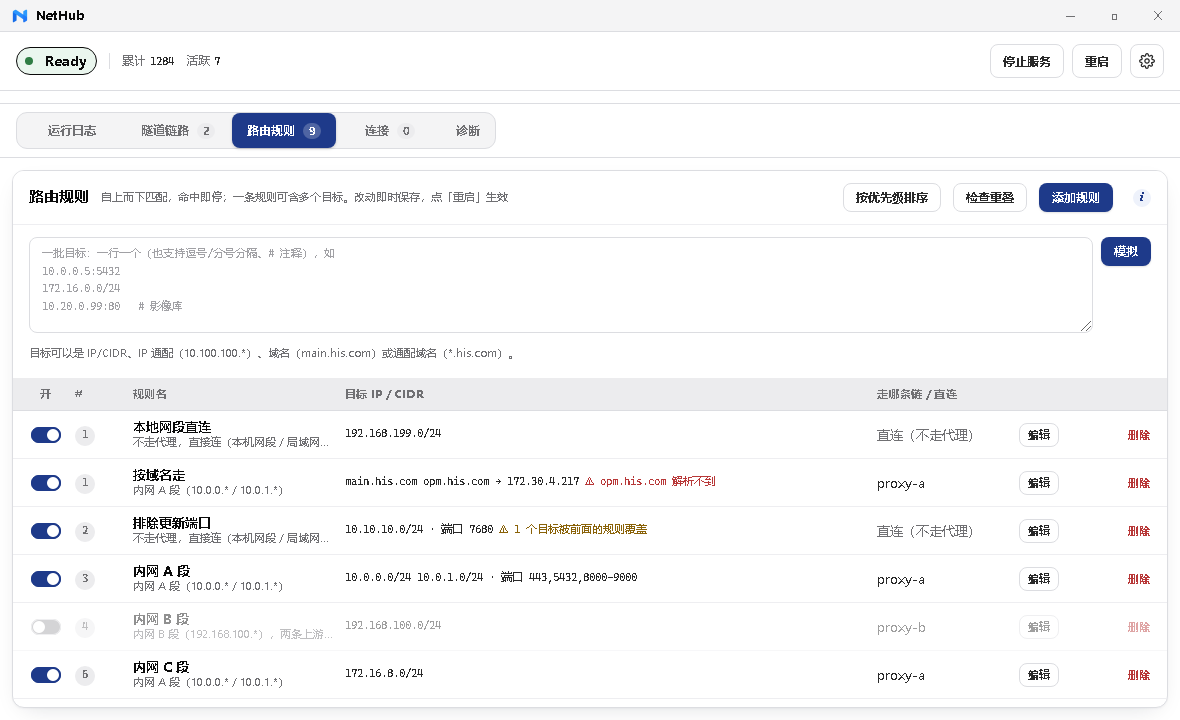
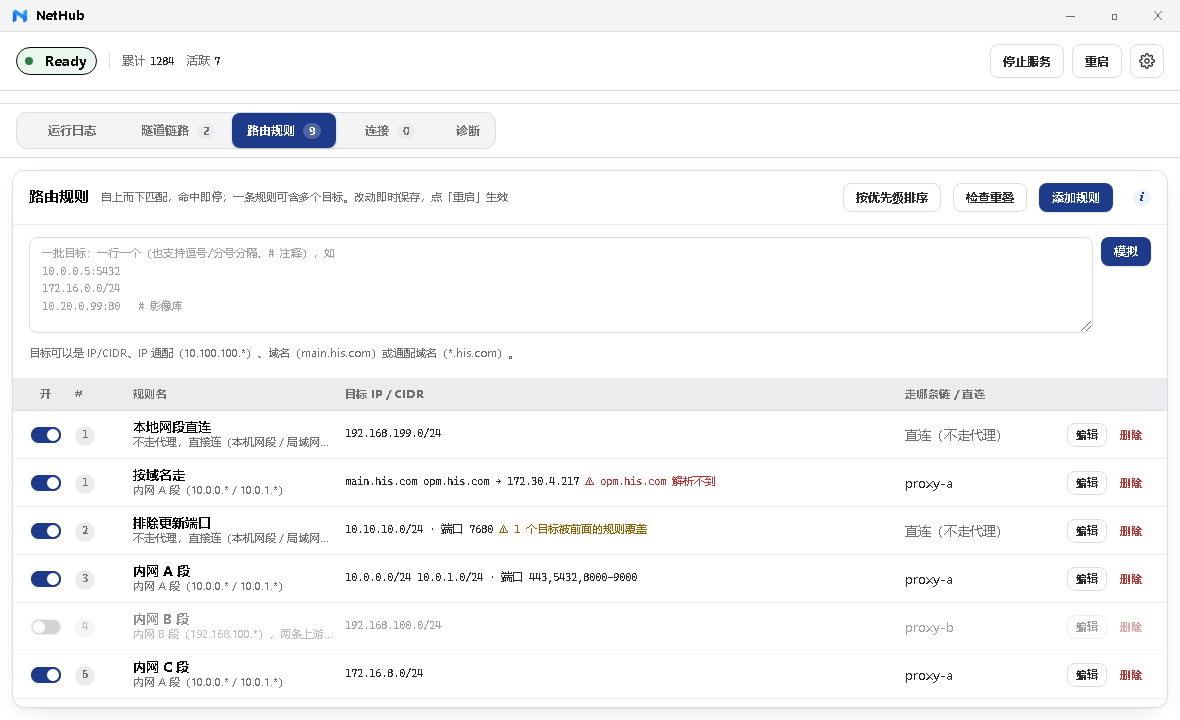
规则/链路行改为整行拖拽排序，去掉 ↑/↓ 按钮
上一版把 ↑↓ 做成 hover 才出现，用户反馈"太蠢"。改成：
- 删除 ↑/↓ 两个按钮，行内只留「编辑 / 删除」。
- 整行按住即可上下拖动排序（按钮、开关、输入框上不起拖，避免误触）。
- 拖拽中只画一条主色落点线，不移动源节点（HTML5 拖拽里移动源节点会把它打断）；
  松手才算出目标下标调后端 MoveRoute/MoveChain 落库。
- 规则表网格 132px → 104px（少两个按钮），链路表同步。
- 拖到列表空白处 = 落到最后。

注：拖拽是鼠标操作，没有键盘等价物（原 ↑↓ 也没有做键盘支持）。
截图已同步重生成。

diff --git a/frontend/app.js b/frontend/app.js
@@ -619,14 +619,9 @@ async function loadChains() {
 
     const acts = el('div', 'cell actions');
     acts.appendChild(btn('编辑', 'btn btn-xs', () => chainForm(i)));
-    const cup = btn('↑', 'btn btn-xs btn-move', () => moveChain(i, -1));
-    cup.title = '上移一位';
-    const cdown = btn('↓', 'btn btn-xs btn-move', () => moveChain(i, 1));
-    cdown.title = '下移一位';
-    acts.appendChild(cup);
-    acts.appendChild(cdown);
     acts.appendChild(btn('删除', 'btn btn-xs btn-danger', () => delChain(c.name)));
     row.appendChild(acts);
+    row.draggable = true;
     t.appendChild(row);
   });
 }
@@ -665,6 +660,72 @@ function btn(text, cls, fn) {
   const b = el('button', cls, text);
   b.onclick = fn;
   return b;
+}
+
+/* 行拖拽排序（规则/链路通用）：按住行内任意位置上下拖，按钮/开关/输入框上不起拖。
+   拖拽中只画一条落点线（不移动源节点 —— 移动它会把 HTML5 拖拽打断）；松手才调后端落库。 */
+function wireRowDrag(tableId, onMove) {
+  const tableEl = document.getElementById(tableId);
+  if (!tableEl) return;
+  let dragRow = null;
+  let pending = null; // { row, after }
+  const rows = () => [...tableEl.children].filter(r => r.classList.contains('trow') && !r.classList.contains('thead'));
+  const clearMarks = () => rows().forEach(r => r.classList.remove('drop-before', 'drop-after'));
+
+  tableEl.addEventListener('dragstart', e => {
+    const row = e.target.closest('.trow');
+    if (!row || row.classList.contains('thead')) return;
+    // 从按钮/开关/输入框上起拖 = 那是点击，不是拖拽
+    if (e.target.closest('button, input, textarea, select, a, .rule-switch')) { e.preventDefault(); return; }
+    dragRow = row;
+    row.dataset.dragFrom = String(rows().indexOf(row));
+    row.classList.add('is-dragging');
+    e.dataTransfer.effectAllowed = 'move';
+    try { e.dataTransfer.setData('text/plain', 'row'); } catch (_) { /* 某些环境不让写 */ }
+  });
+
+  tableEl.addEventListener('dragover', e => {
+    if (!dragRow) return;
+    e.preventDefault();
+    e.dataTransfer.dropEffect = 'move';
+    clearMarks();
+    pending = null;
+    const over = e.target.closest('.trow');
+    if (over && !over.classList.contains('thead') && over !== dragRow) {
+      const rect = over.getBoundingClientRect();
+      const after = e.clientY > rect.top + rect.height / 2;
+      over.classList.add(after ? 'drop-after' : 'drop-before');
+      pending = { row: over, after };
+    } else if (!over) {
+      // 拖到列表空白处 → 落到最后一行之后
+      const list = rows();
+      const last = list[list.length - 1];
+      if (last && last !== dragRow) { last.classList.add('drop-after'); pending = { row: last, after: true }; }
+    }
+  });
+
+  const finish = async () => {
+    const r = dragRow;
+    const p = pending;
+    dragRow = null;
+    pending = null;
+    clearMarks();
+    if (!r) return;
+    r.classList.remove('is-dragging');
+    const from = parseInt(r.dataset.dragFrom || '-1', 10);
+    delete r.dataset.dragFrom;
+    if (!p || from < 0) return;
+    let to = rows().indexOf(p.row);
+    if (to < 0) return;
+    if (p.after) to += 1;
+    if (from < to) to -= 1; // 抽走源行后，目标下标左移一位
+    if (to !== from) await onMove(from, to);
+    else clearMarks();
+  };
+
+  tableEl.addEventListener('drop', e => { if (dragRow) { e.preventDefault(); finish(); } });
+  tableEl.addEventListener('dragend', () => { finish(); });
+  tableEl.addEventListener('dragleave', e => { if (!tableEl.contains(e.relatedTarget)) clearMarks(); });
 }
 
 /* ═══════════════ 空状态 ═══════════════ */
@@ -811,10 +872,10 @@ function field(label, node, hint) {
   return f;
 }
 
-async function moveChain(i, d) {
-  const to = i + d;
-  if (to < 0 || to >= chains.length) return;
-  try { await call('MoveChain', i, to); await loadChains(); } catch (e) { fail(e); }
+/* 拖拽排序：把第 from 条移到第 to 条（绝对值，拖拽落点算出）。 */
+async function moveChainTo(from, to) {
+  try { await call('MoveChain', from, to); } catch (e) { fail(e); }
+  await loadChains();
 }
 
 async function delChain(name) {
@@ -898,14 +959,9 @@ async function loadRoutes() {
 
     const acts = el('div', 'cell actions');
     acts.appendChild(btn('编辑', 'btn btn-xs', () => ruleForm(r.index)));
-    const up = btn('↑', 'btn btn-xs btn-move', () => moveRoute(r.index, -1));
-    up.title = '上移一位（越靠前越先命中）';
-    const down = btn('↓', 'btn btn-xs btn-move', () => moveRoute(r.index, 1));
-    down.title = '下移一位';
-    acts.appendChild(up);
-    acts.appendChild(down);
     acts.appendChild(btn('删除', 'btn btn-xs btn-danger', () => delRoute(r.index)));
     row.appendChild(acts);
+    row.draggable = true; // 整行按住可拖拽调顺序（按钮/开关上不起拖，见 wireRowDrag）
     t.appendChild(row);
   });
 }
@@ -1149,10 +1205,9 @@ function splitTargets(raw) {
   return String(raw || '').split(/[\s,，;；、]+/).filter(Boolean);
 }
 
-async function moveRoute(i, d) {
-  const to = i + d;
-  if (to < 0 || to >= routes.length) return;
-  try { await call('MoveRoute', i, to); await loadRoutes(); } catch (e) { fail(e); }
+async function moveRouteTo(from, to) {
+  try { await call('MoveRoute', from, to); } catch (e) { fail(e); }
+  await loadRoutes();
 }
 
 async function delRoute(i) {
@@ -1495,6 +1550,8 @@ function wire() {
   document.querySelectorAll('.tab').forEach(t => t.onclick = () => showPage(t.dataset.page));
   window.addEventListener('resize', positionTabThumb);
   positionTabThumb();
+  wireRowDrag('ruleTable', moveRouteTo);
+  wireRowDrag('chainTable', moveChainTo);
   document.getElementById('btnSettings').onclick = () => showPage('settings');
 
   // 主操作

diff --git a/frontend/style.css b/frontend/style.css
@@ -438,21 +438,20 @@ code, .mono { font-family: var(--font-mono); }
 .trow .cell.stack .sub { font-size: var(--fs-xs); color: var(--muted); font-weight: 400; overflow: hidden; text-overflow: ellipsis; white-space: nowrap; }
 /* 序号/数字等宽，避免刷新时抖动 */
 .trow .idx, .trow .cell.mono, .kv b { font-variant-numeric: tabular-nums; }
-/* 行内操作：上/下移默认藏起来，鼠标扫到这一行（或键盘落到行内按钮）才出现 ——
-   默认只留「编辑 / 删除」，降噪；用 visibility 而不是 opacity，避免不可见却可点。 */
-.trow .cell.actions .btn-move { visibility: hidden; opacity: 0; transition: opacity var(--ease); }
-.trow:hover .cell.actions .btn-move,
-.trow:focus-within .cell.actions .btn-move { visibility: visible; opacity: 1; }
-@media (prefers-reduced-motion: reduce) {
-  .trow .cell.actions .btn-move { transition: none; }
-}
+/* 行拖拽排序：整行可拖（按钮/开关/输入框上不起拖，见 JS）。
+   用一条内侧主色线做落点提示，不真改 DOM 顺序（拖拽中移动源节点会把拖拽打断）。 */
+.trow:not(.thead)[draggable="true"] { cursor: grab; }
+.trow:not(.thead)[draggable="true"]:active { cursor: grabbing; }
+.trow.is-dragging { opacity: .45; }
+.trow.drop-before { box-shadow: inset 0 2px 0 0 var(--primary); }
+.trow.drop-after  { box-shadow: inset 0 -2px 0 0 var(--primary); }
 .trow .idx {
   display: inline-flex; align-items: center; justify-content: center;
   width: 20px; height: 20px; border-radius: var(--r-pill);
   background: var(--card-strong); color: var(--muted);
   font-size: var(--fs-xs); font-weight: 700; font-family: var(--font-mono);
 }
-.chain-grid { grid-template-columns: 120px minmax(200px, 1.4fr) 92px minmax(110px, 1fr) 150px; }
+.chain-grid { grid-template-columns: 120px minmax(200px, 1.4fr) 92px minmax(110px, 1fr) 104px; }
 
 /* 装机包导出结果 */
 .export-list { margin: var(--s2) 0 var(--s2) var(--s4); padding: 0; max-height: 40vh; overflow: auto; }
@@ -475,7 +474,7 @@ code, .mono { font-family: var(--font-mono); }
 .sim-badge.direct { background: var(--success-soft); color: var(--success); }
 .sim-badge.bad { background: var(--error-soft); color: var(--error); }
 .sim-badge.none { background: var(--card-strong); color: var(--muted); }
-.rule-grid  { grid-template-columns: 34px 46px 200px minmax(220px, 1.5fr) 130px 132px; }
+.rule-grid  { grid-template-columns: 34px 46px 200px minmax(220px, 1.5fr) 130px 104px; }
 .conn-grid  { grid-template-columns: 40px 132px minmax(160px, 1.2fr) 62px 92px 74px 84px 84px 92px; }
 /* 上游健康的小圆点（只探测到代理这一段） */
 .dot { display: inline-block; width: 8px; height: 8px; border-radius: 50%; margin-right: 4px; vertical-align: middle; background: var(--muted-soft); }
